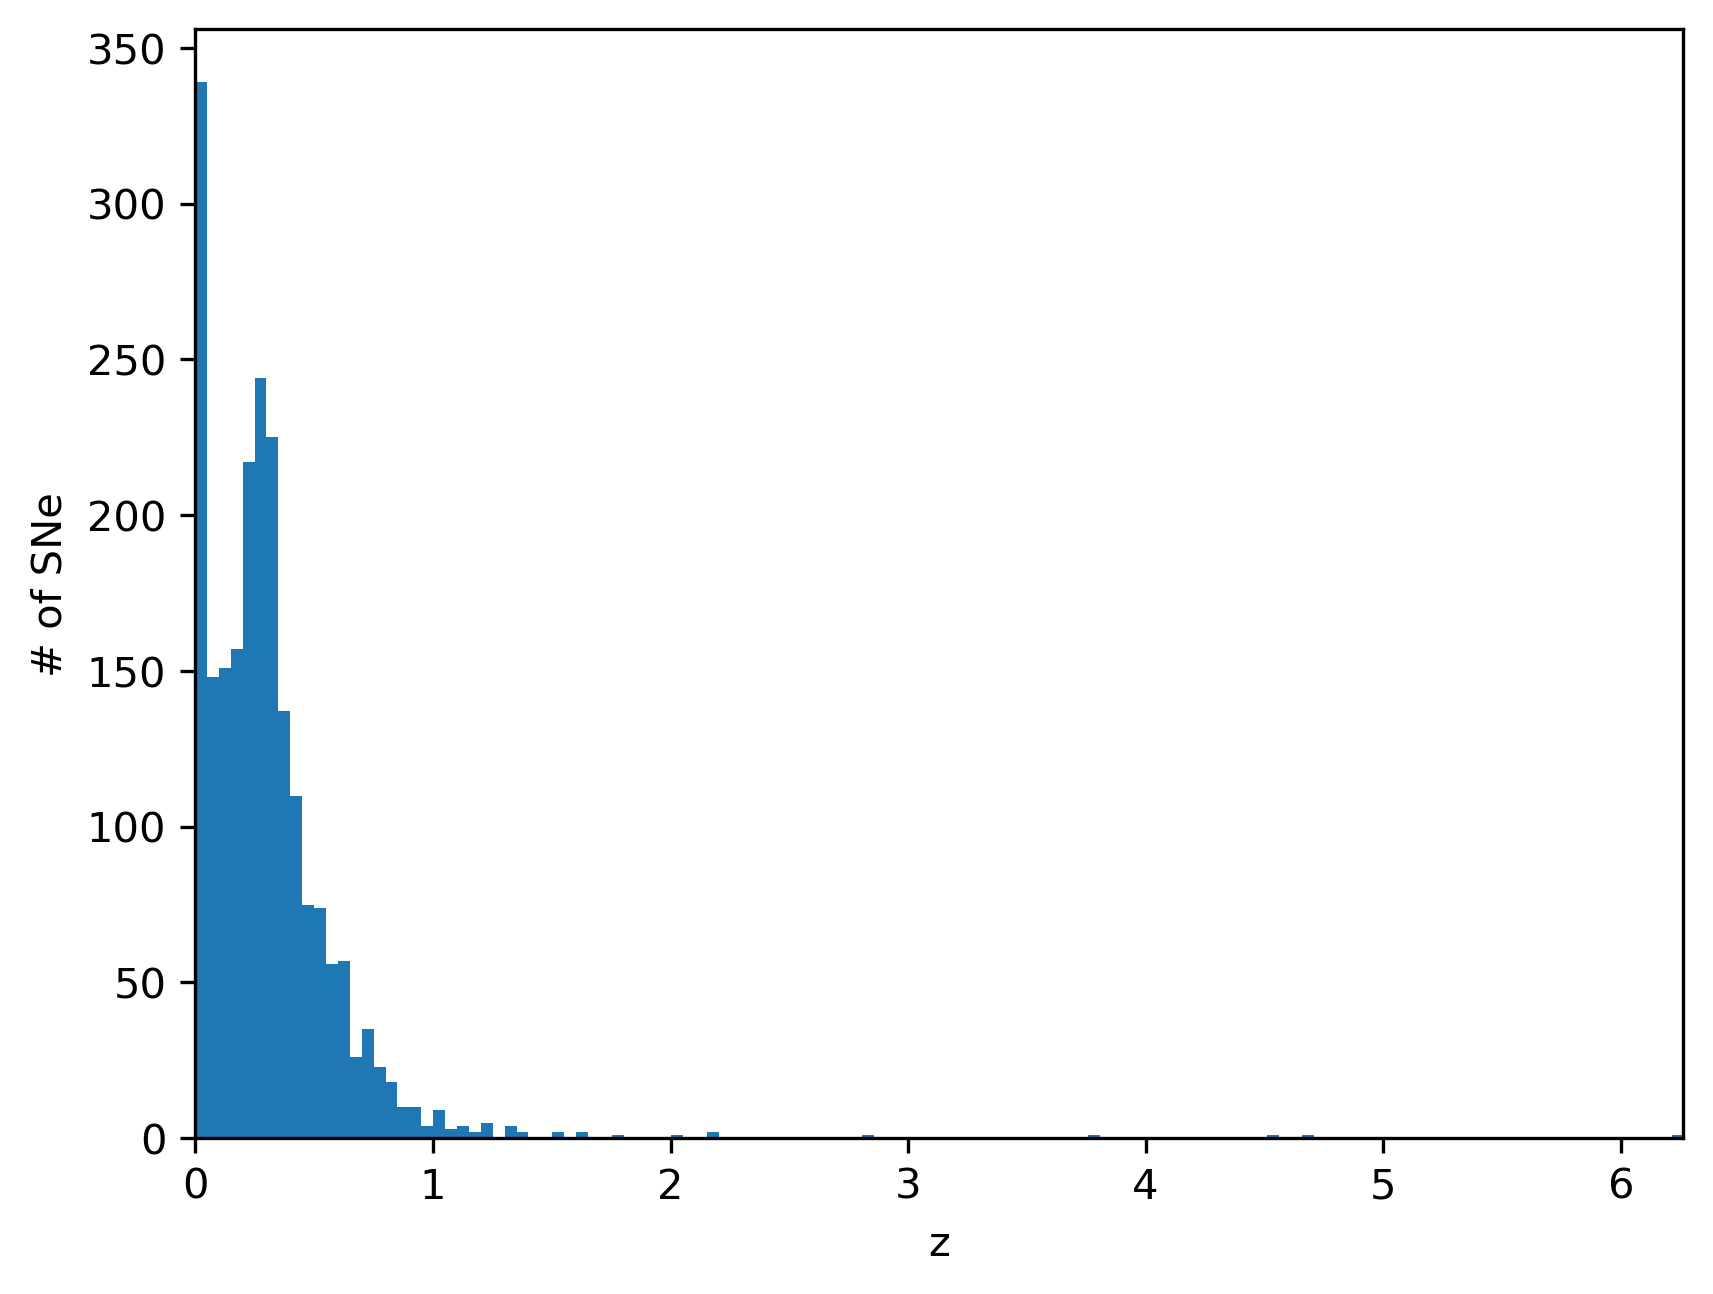
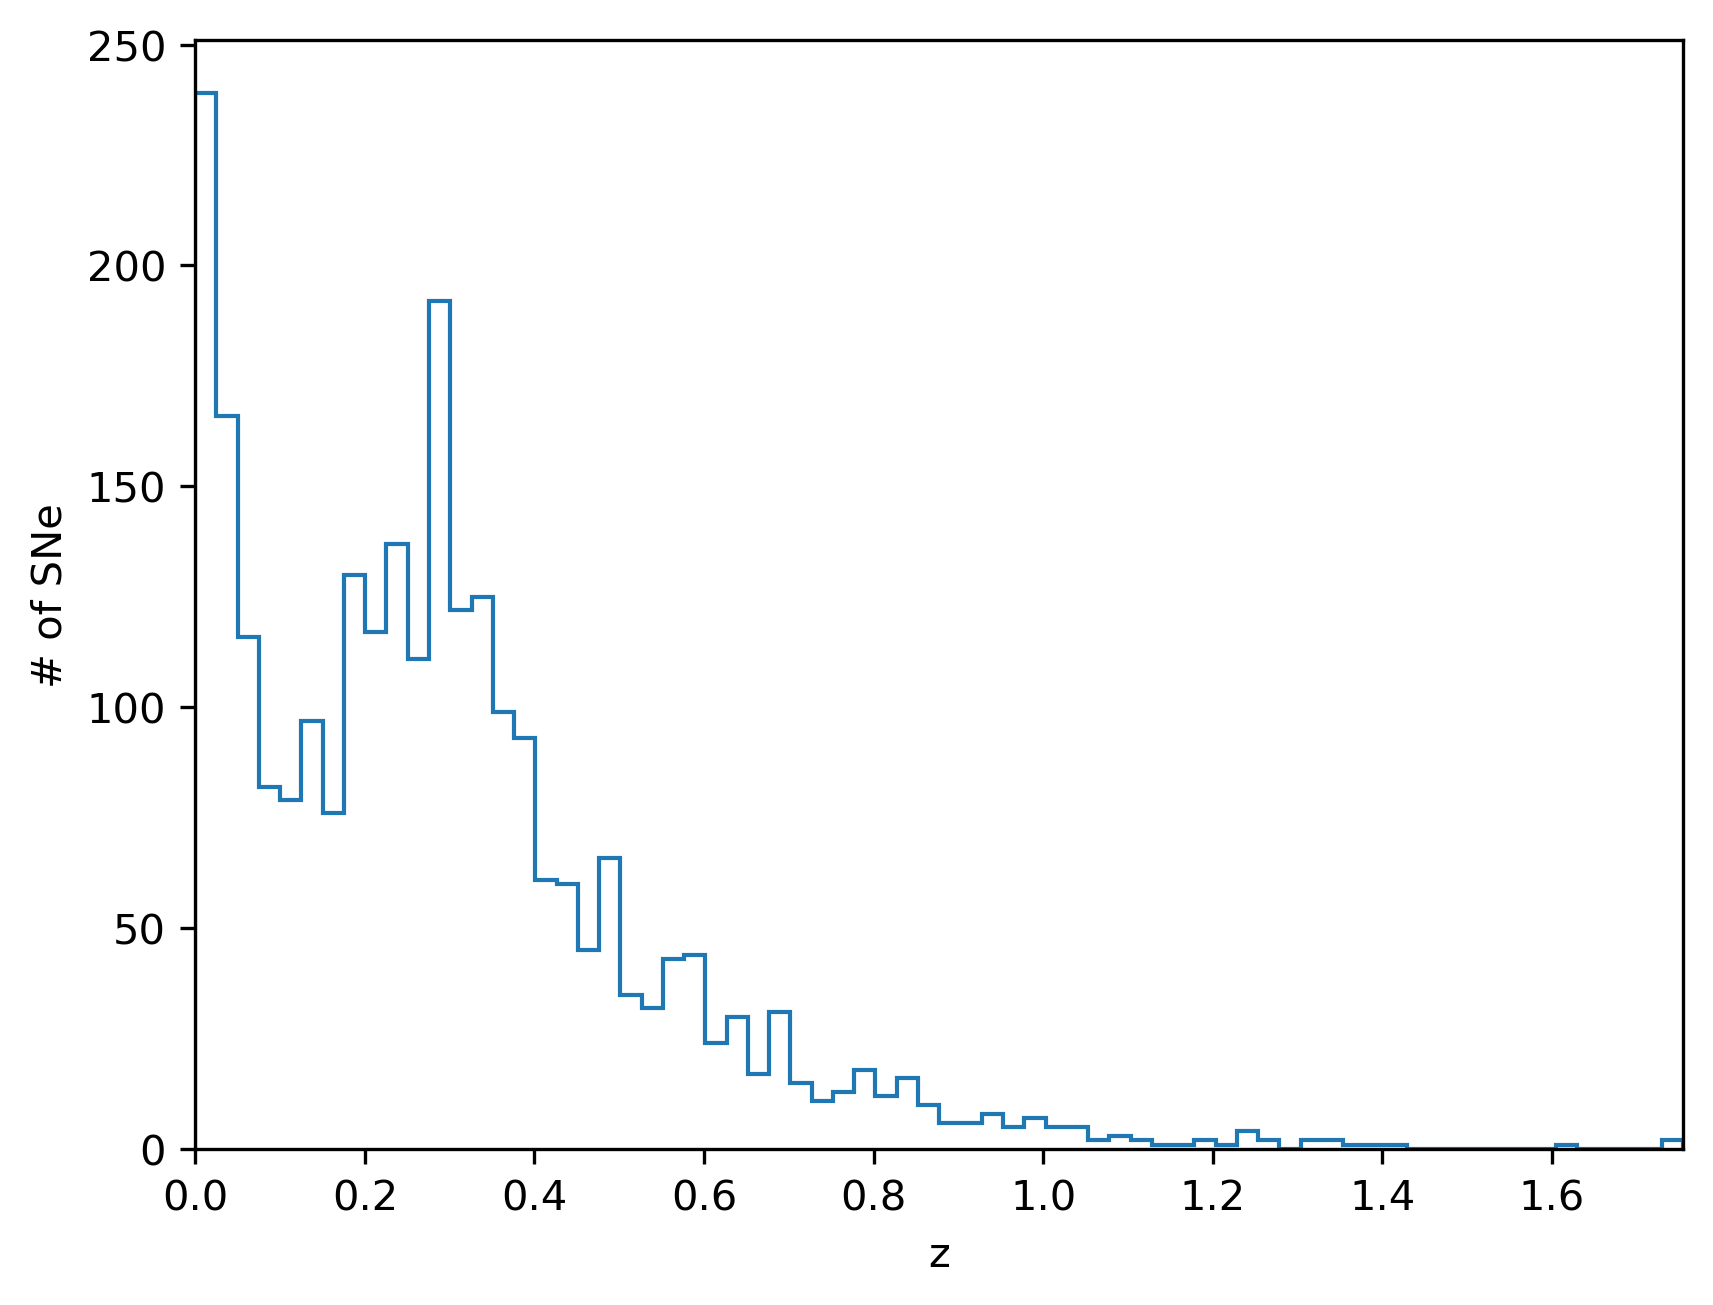
fixed redshift plot

diff --git a/scrape_ned.py b/scrape_ned.py
@@ -254,7 +254,7 @@ def hubble_distance(z):
 
 def plot_redshifts(ned, bin_width=0.025):
     z = ned['z']
-    z = z[pd.notna(z)]
+    z = z[pd.notna(z)].astype(float)
     bins = int((max(z) - min(z)) / bin_width)
     plt.hist(z, bins=bins, histtype='step')
     plt.xlabel('z')
